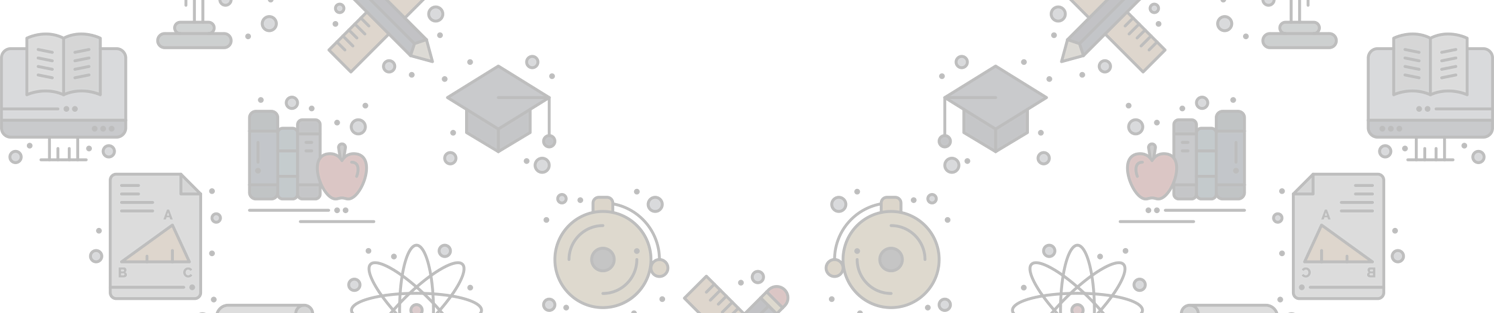
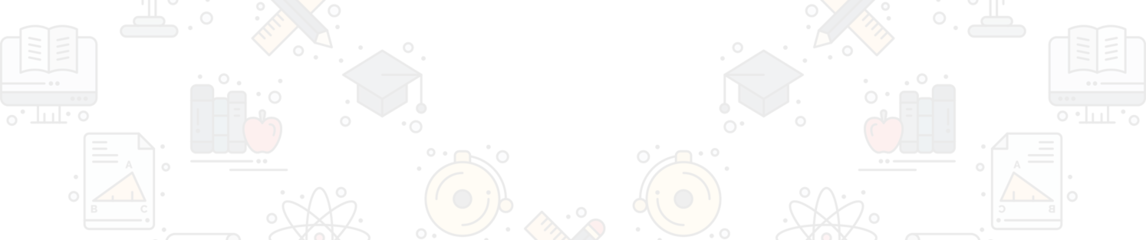
commit

diff --git a/styles.css b/styles.css
@@ -92,3 +92,6 @@
         width: 100%;
     }
 }
+
+
+/* Image opcity increased with : https://www2.lunapic.com/editor/ */
